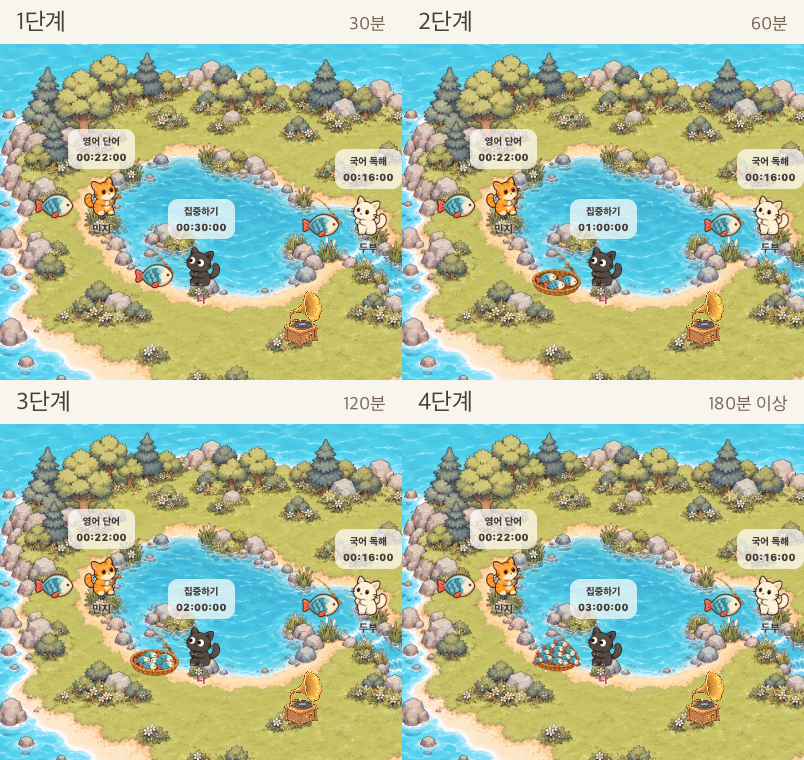
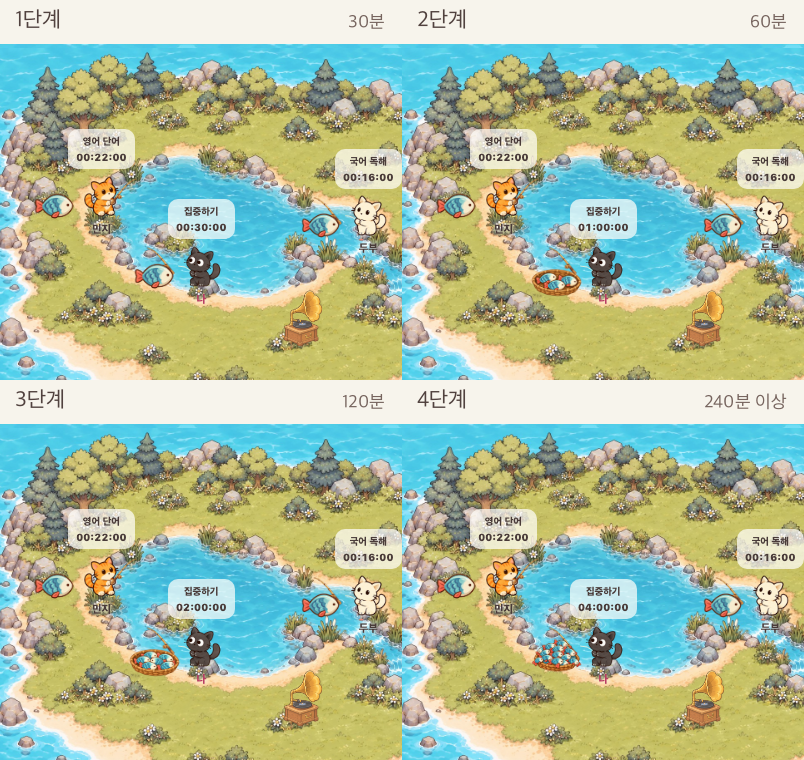
[FIX] GROMO-1920 물고기 더미 4단계 기준 정정

diff --git a/assets/gachisup-r61/README.md b/assets/gachisup-r61/README.md
@@ -29,8 +29,8 @@
 - 집중 중 고양이 옆 물고기 더미는 같은 1024×1024 투명 캔버스와 하단 기준선을 쓴다.
 - 1단계 `catch/single.png`: 집중 1~59분, 바구니 없이 물고기 한 마리.
 - 2단계 `catch/pile-small.png`: 집중 60~119분, 얕은 바구니에 세 마리.
-- 3단계 `catch/pile-medium.png`: 집중 120~179분, 바구니에 여섯 마리.
-- 4단계 `catch/pile-large.png`: 집중 180분 이상, 물고기가 바구니 위와 양옆으로 넘치는 최종 더미. 4시간 집중까지 이 단계를 유지한다.
+- 3단계 `catch/pile-medium.png`: 집중 120~239분, 바구니에 여섯 마리.
+- 4단계 `catch/pile-large.png`: 집중 240분 이상, 물고기가 바구니 위와 양옆으로 넘치는 최종 더미.
 - 실제 앱 적용 캡처: [`focus-catch-stages.png`](../../screenshots/GROMO-1920/focus-catch-stages.png), [`focus-result.png`](../../screenshots/GROMO-1920/focus-result.png).
 
 ## UI 킷 · 딸기 소다 기본 (`ui-kit/`)
